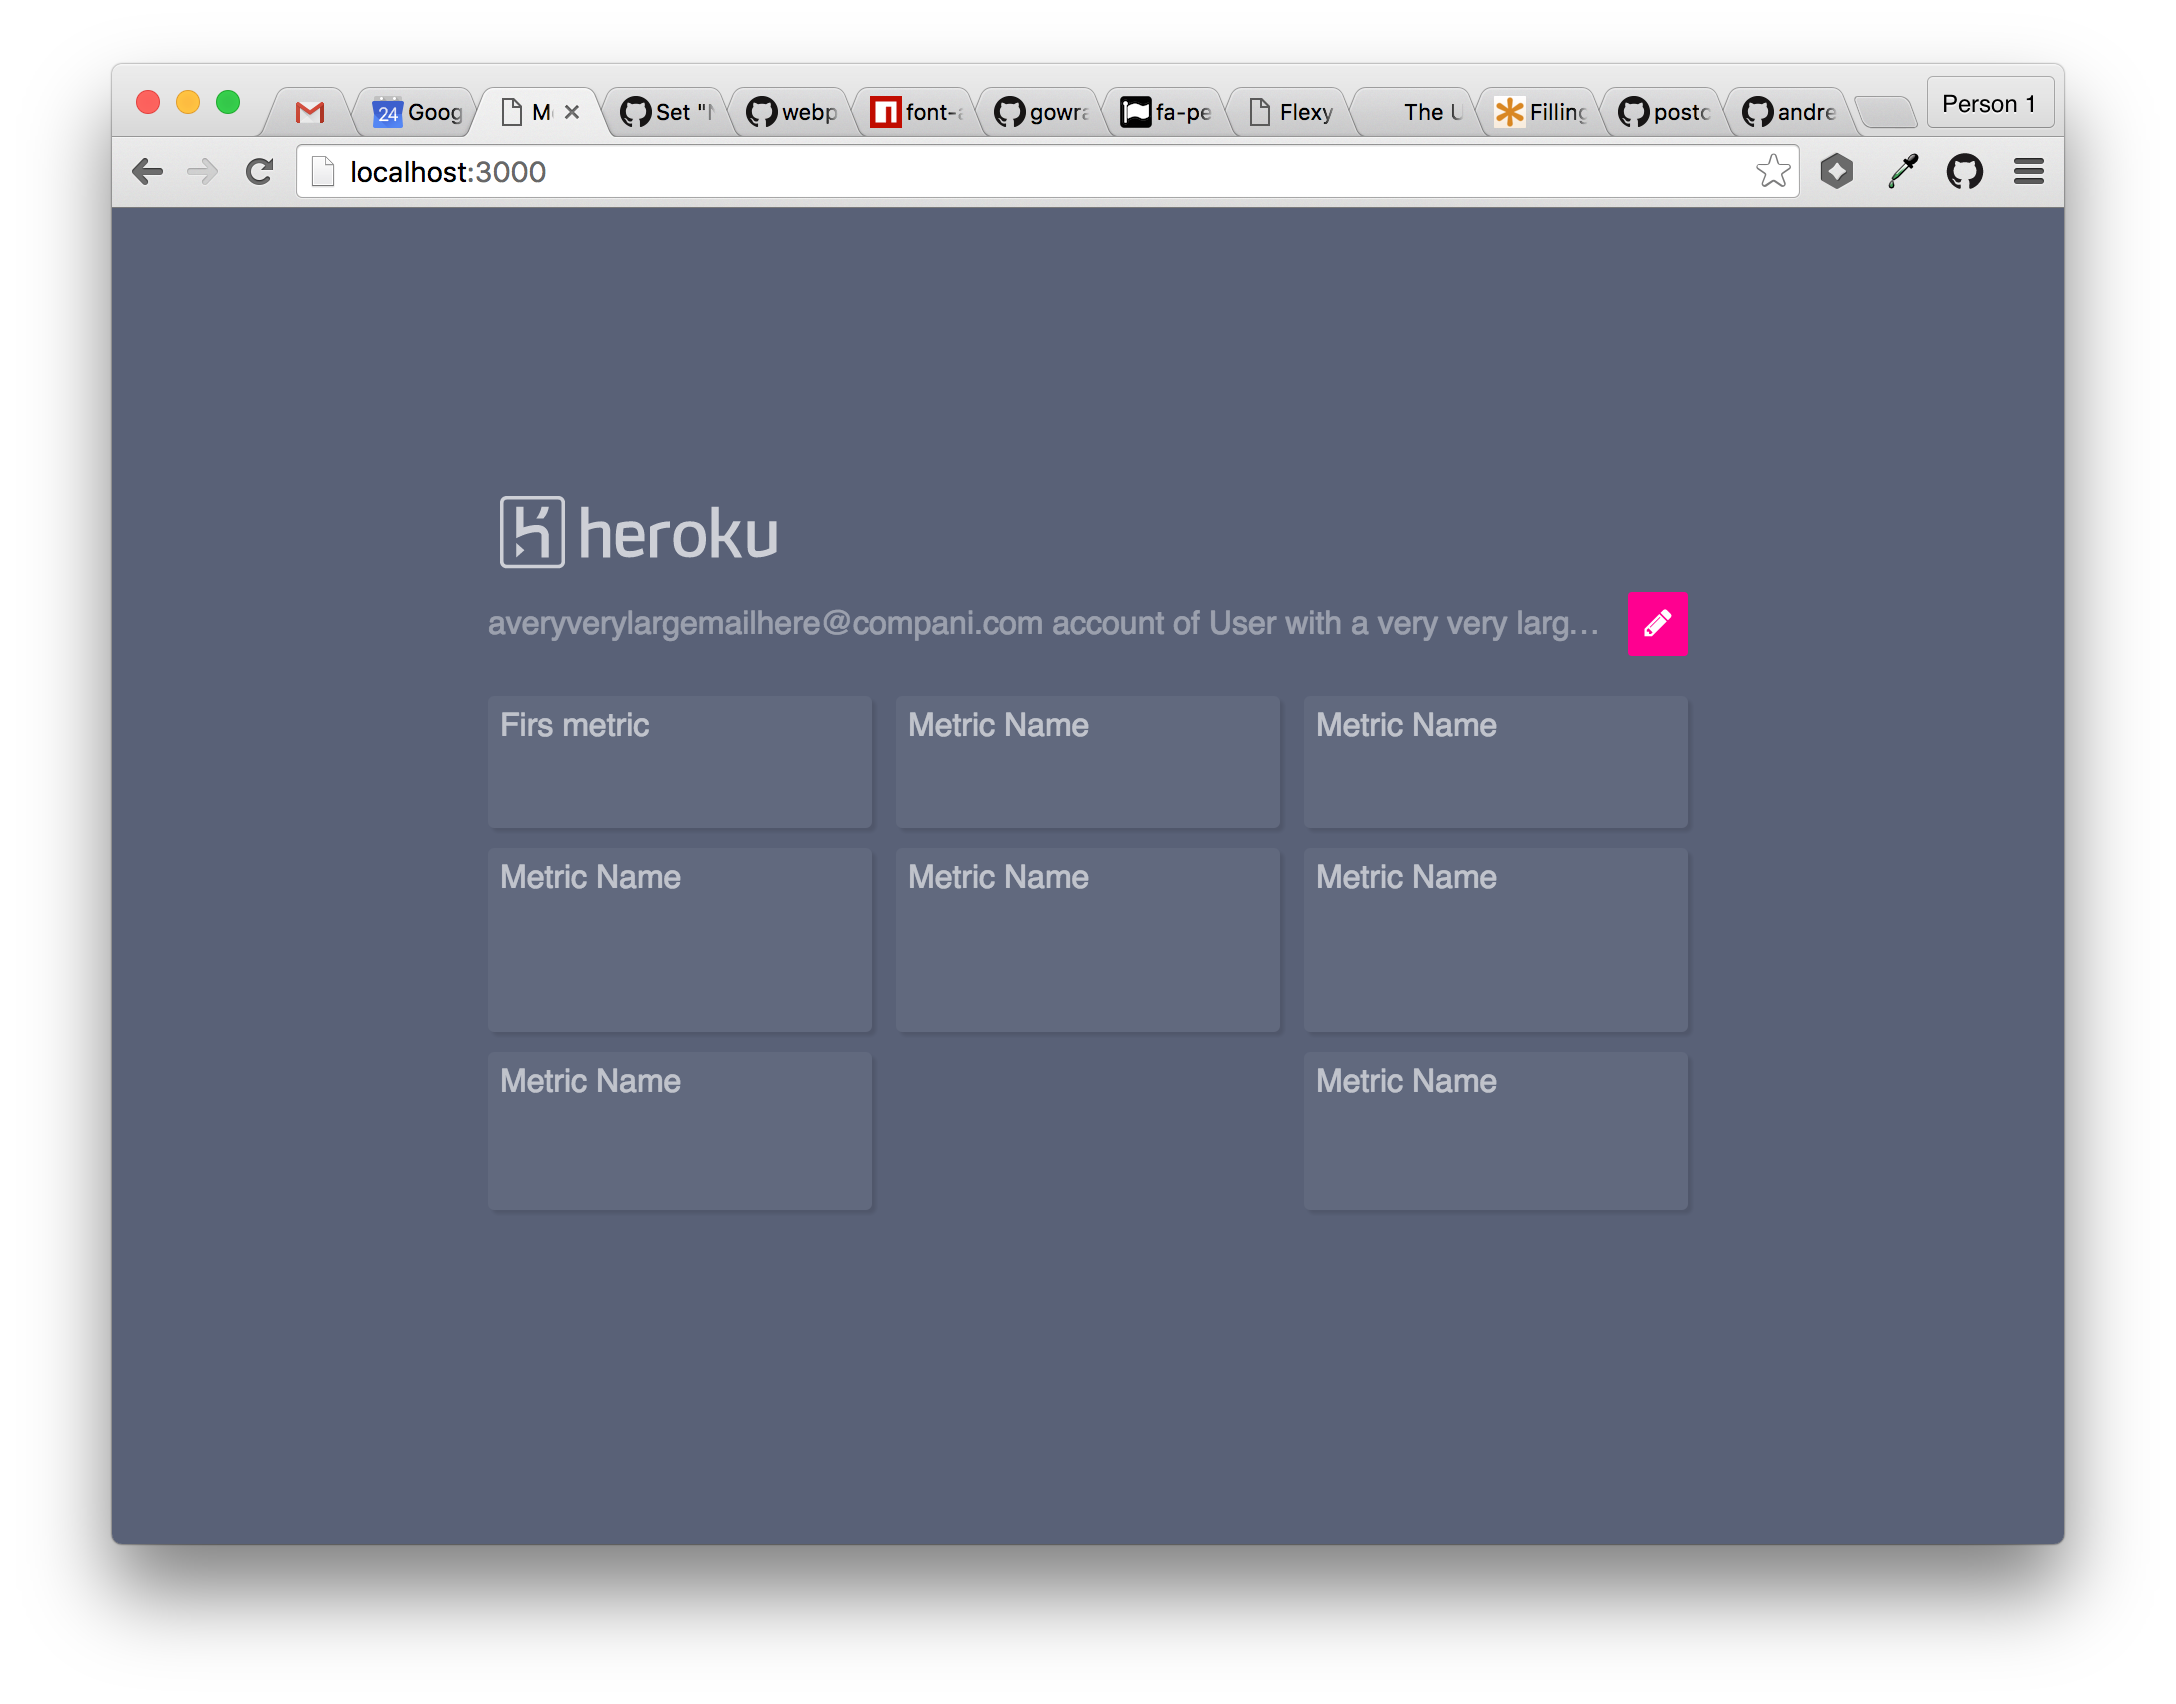
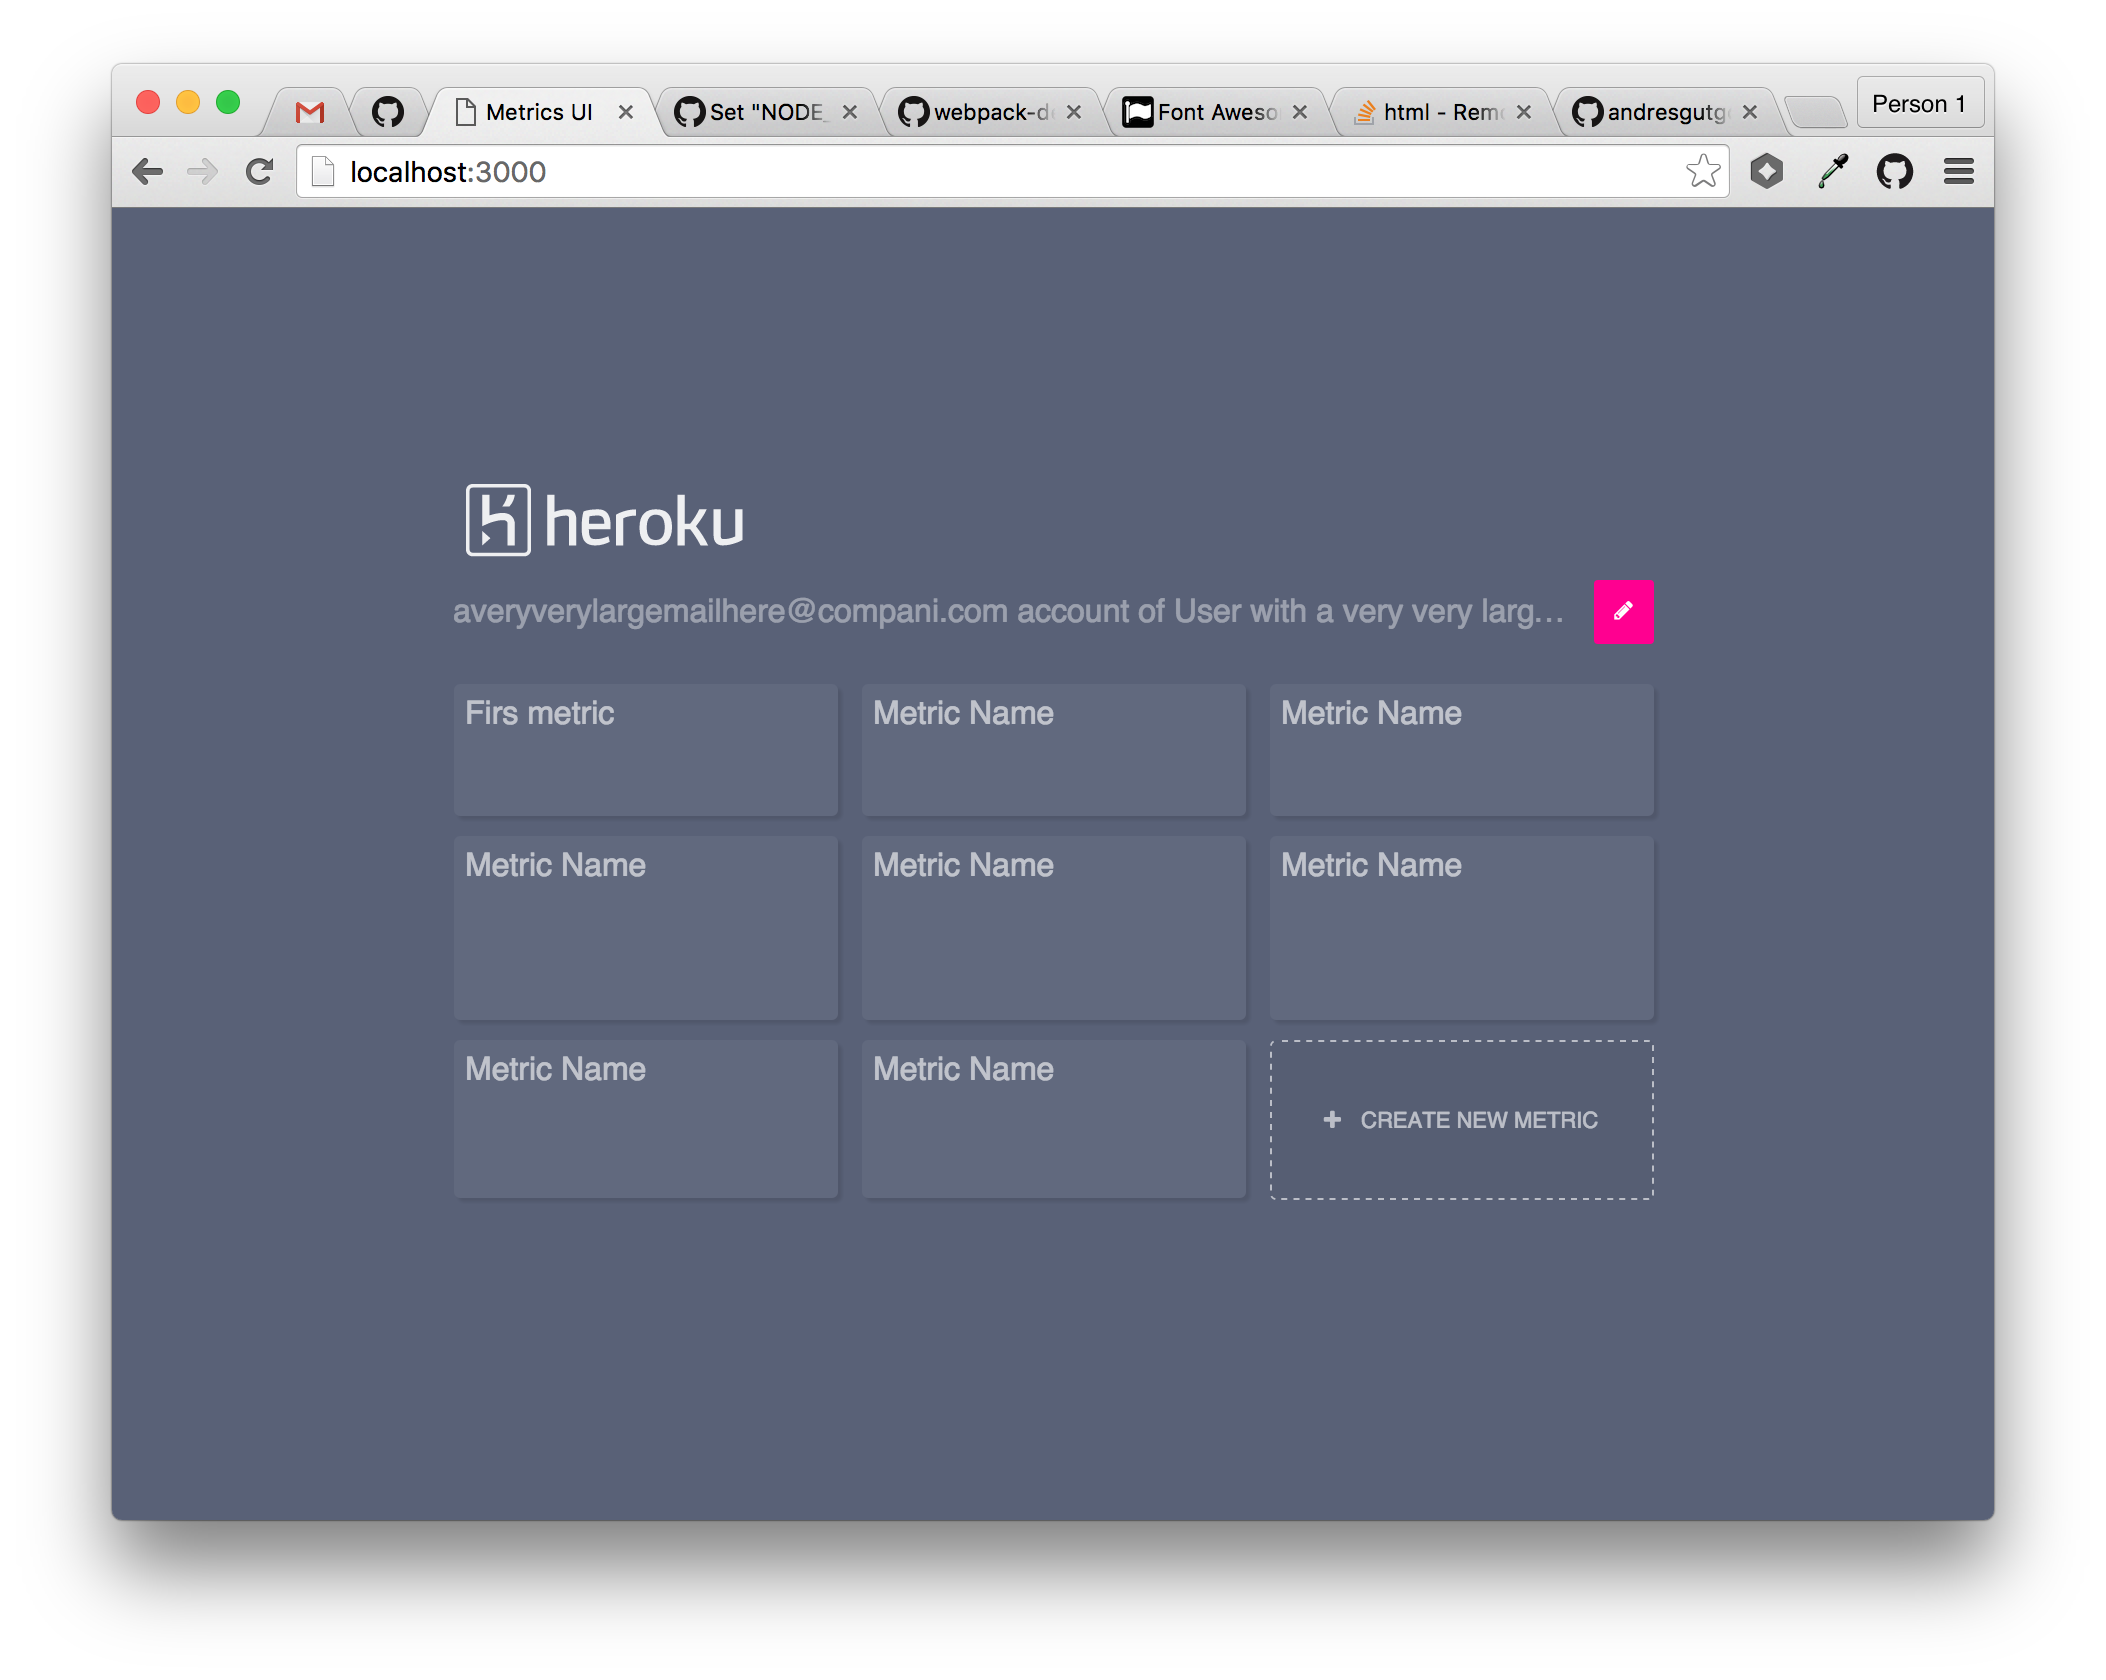
New screenshot

diff --git a/src/components/MetricButton/index.js b/src/components/MetricButton/index.js
@@ -27,7 +27,7 @@ class MetricButton extends Component {
 }
 
 MetricButton.defaultProps = {
-  editing: true,
+  editing: false,
 };
 
 export default MetricButton;

diff --git a/src/components/Metric/index.js b/src/components/Metric/index.js
@@ -37,7 +37,7 @@ class Metric extends Component {
 }
 
 Metric.defaultProps = {
-  editing: true,
+  editing: false,
 };
 
 export default Metric;
